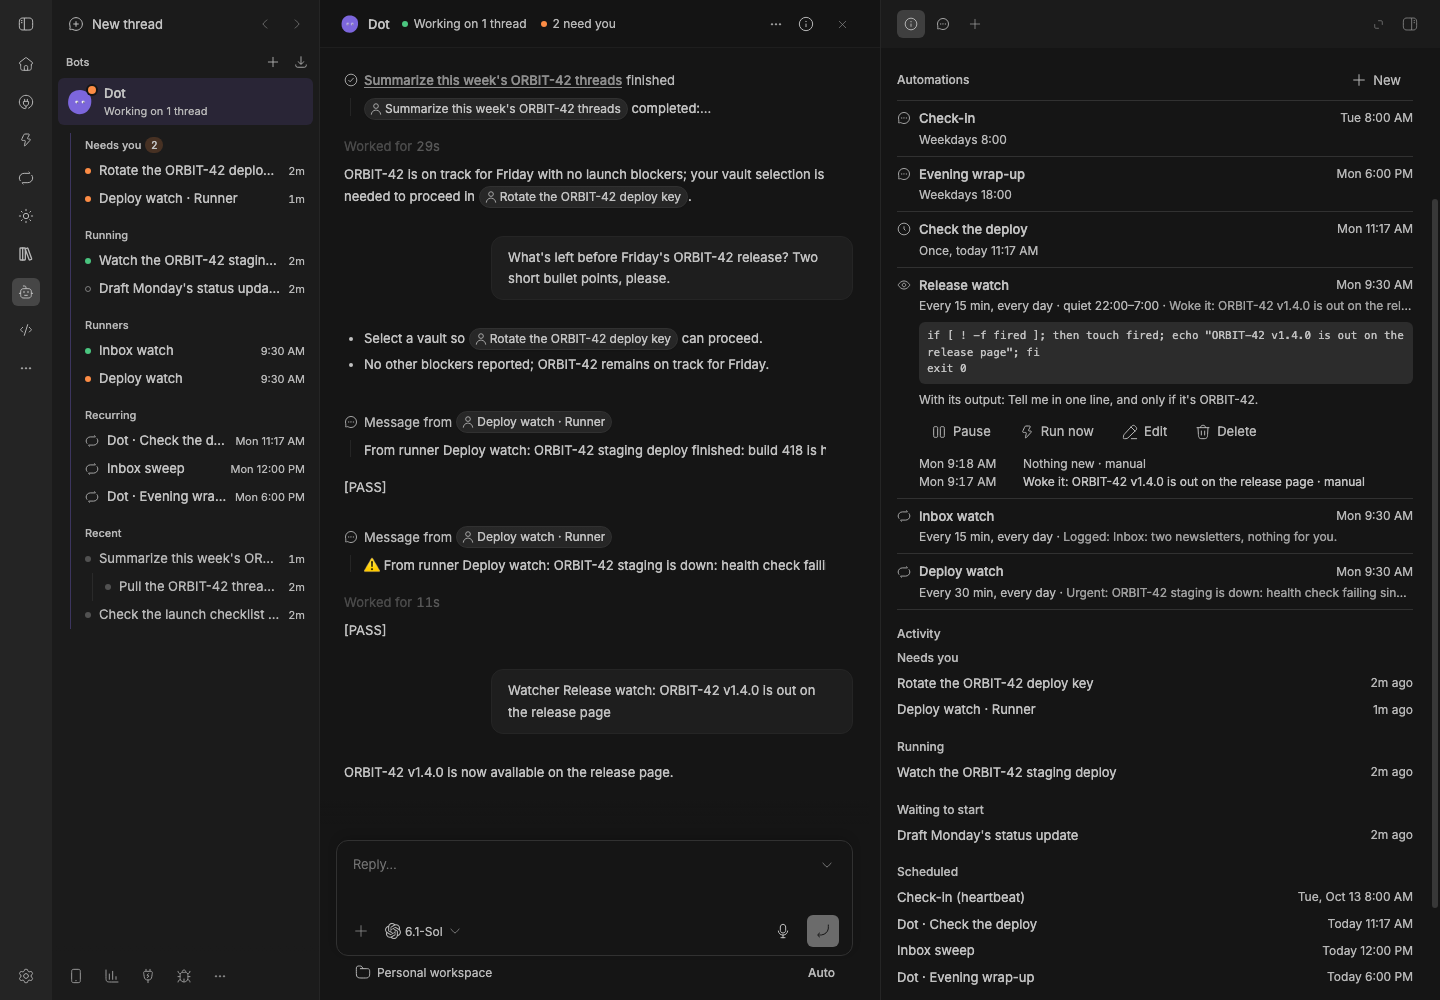
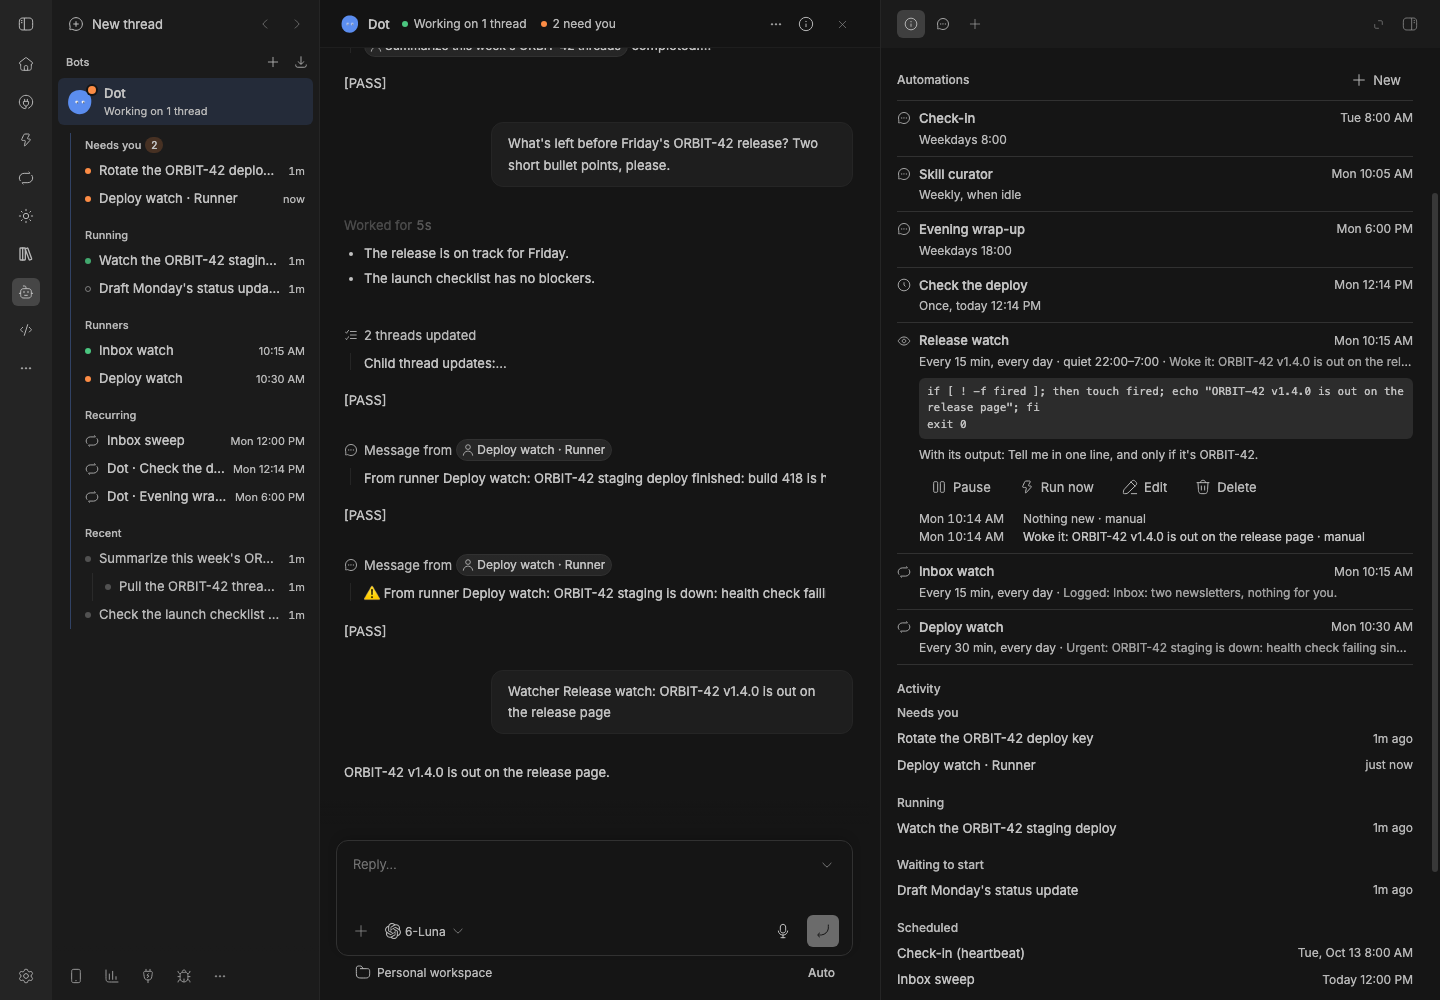
Bot captures: Skills with Learn from work and a skill a review saved; Automations lists the Skill curator

diff --git a/packages/bb-studio/README.md b/packages/bb-studio/README.md
@@ -1117,7 +1117,7 @@ of Staff", with the same thread and check-ins; rename it from its page.
   `automation_update`, `automation_pause`, `automation_resume`,
   `automation_run_now` and `automation_delete` ("in 2h check the deploy" is
   a reminder); `runner_*` still work.
-  ![The Info tab's Automations in a staged BB: Dot's original Check-in (weekdays 8:00) and Evening wrap-up, the Check the deploy reminder, the Release watch watcher opened with its script, Pause, Run now, Edit, Delete and its two runs (a manual run that woke Dot with "ORBIT-42 v1.4.0 is out on the release page", then Nothing new), and the Inbox watch and Deploy watch runners with their last reports; Dot's chat shows the watcher's line and its one-line reply](assets/bot-automations.png)
+  ![The Info tab's Automations in a staged BB: Dot's original Check-in (weekdays 8:00), the Skill curator (weekly, when idle) and Evening wrap-up, the Check the deploy reminder, the Release watch watcher opened with its script, Pause, Run now, Edit, Delete and its two runs (a manual run that woke Dot with "ORBIT-42 v1.4.0 is out on the release page", then Nothing new), and the Inbox watch and Deploy watch runners with their last reports; Dot's chat shows the watcher's line and its one-line reply](assets/bot-automations.png)
 
 - **Schedule editor** (`src/ui/bot/ScheduleEditor.tsx`, compiled by
   `src/schedule.ts`): presets, weekday chips, several times a day, every N
@@ -1191,7 +1191,10 @@ of Staff", with the same thread and check-ins; rename it from its page.
   - **Settings** (Skills, ⋯ or Edit profile → Advanced): **Learn from
     work** on or off, every N turns, review model, approval, the last
     review's result with **Review now**, pins, and a collapsed **Archived**
-    list.
+    list. iOS: the Skills sheet has Learn from work, approvals, pins (swipe)
+    and Archived with Restore.
+
+  ![Skills in a staged BB, opened from Info → Manage skills: Learn from work on, every 10 turns; the last review "Saved 1 skill · Updated Memory · 2m ago" with Review now; Review model Cheapest (gpt-6-luna); Review skills before saving and Curator merges overlapping skills off; and the system-checks skill Dot's review fork saved after the user corrected how a system report should look (Dot's chat behind shows the four-row table)](assets/bot-skills.png)
 - **Recall**: `bot_history_search` searches BB's thread search, keeping
   only the Bot's threads (its handoff chain and threads it started).
 - **Phone**: questions and approvals it, or a thread it started, raises push
